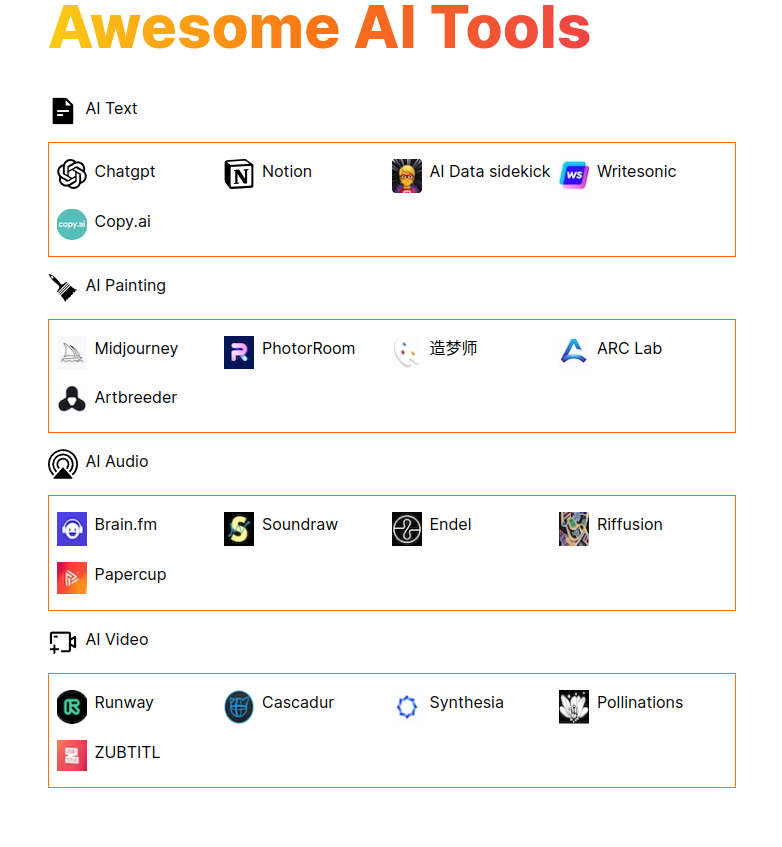
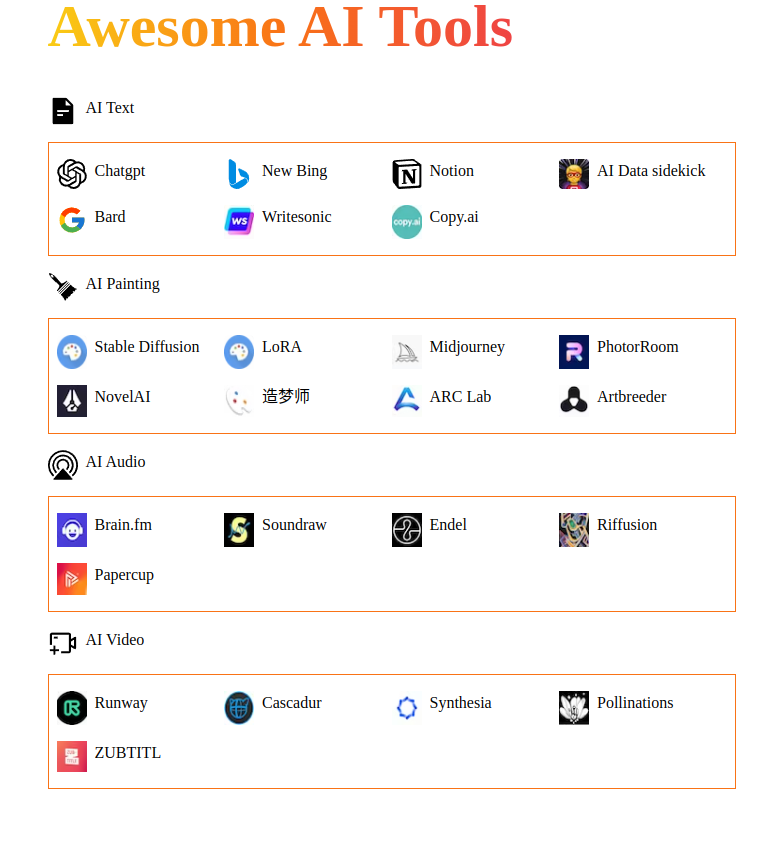
update text tools

diff --git a/src/app/page.tsx b/src/app/page.tsx
@@ -1,15 +1,19 @@
 import Contact from '@/components/Contact';
 import Icon from '@/components/Icon';
 import { AiFillFileText, AiOutlineVideoCameraAdd } from 'react-icons/ai';
-import { SiOpenai, SiNotion, SiAirplayaudio } from 'react-icons/si'
+import { SiOpenai, SiNotion, SiAirplayaudio, SiMicrosoftbing } from 'react-icons/si'
 import { GiLargePaintBrush } from 'react-icons/gi'
+import { FcGoogle } from 'react-icons/fc'
 
 export default function About() {
-  const TEXT_TOOLS = [{ icon: SiOpenai, href: 'https://chat.openai.com/chat', label: 'Chatgpt' },
-  { icon: SiNotion, href: 'https://notion.ai', label: 'Notion' },
-  { icon: '/img/sidekick.jpeg', href: 'https://www.airops.com/', label: 'AI Data sidekick' },
-  { icon: '/img/writesonic.jpeg', href: 'https://writesonic.com', label: 'Writesonic' },
-  { icon: '/img/copyai.jpeg', href: 'https://www.copy.ai', label: 'Copy.ai' },
+  const TEXT_TOOLS = [
+    { icon: SiOpenai, href: 'https://chat.openai.com/chat', label: 'Chatgpt' },
+    { icon: SiMicrosoftbing, href: 'https://bing.com/new', label: 'New Bing', color: '#008CE2' },
+    { icon: SiNotion, href: 'https://notion.ai', label: 'Notion' },
+    { icon: '/img/sidekick.jpeg', href: 'https://www.airops.com/', label: 'AI Data sidekick' },
+    { icon: FcGoogle, href: 'https://bard.google.com/', label: 'Bard' },
+    { icon: '/img/writesonic.jpeg', href: 'https://writesonic.com', label: 'Writesonic' },
+    { icon: '/img/copyai.jpeg', href: 'https://www.copy.ai', label: 'Copy.ai' },
   ]
   const PAINT_TOOLS = [
     { icon: '/img/paint.png', href: 'https://stablediffusionweb.com/', label: 'Stable Diffusion' },
@@ -46,7 +50,7 @@ export default function About() {
         </div>
         <div className='my-4 grid grid-cols-4  border border-orange-500 p-2'>
           {TEXT_TOOLS.map((item, index) => (
-            <Icon key={index} icon={item.icon} href={item.href} label={item.label}></Icon>
+            <Icon key={index} icon={item.icon} href={item.href} label={item.label} color={item.color}></Icon>
           ))}
         </div>
       </div>

diff --git a/src/components/Icon.tsx b/src/components/Icon.tsx
@@ -5,19 +5,20 @@ interface IconProps {
     icon: IconType | string;
     href: string;
     label: string;
+    color?: string;
 }
 
-const Icon: React.FC<IconProps> = ({ icon: IconComponent, href, label }) => (
+const Icon: React.FC<IconProps> = (props) => (
     <div className='my-2 flex'>
-        {typeof IconComponent === 'string' ? <Image src={IconComponent} alt={label} width="30" height="30"></Image>: <IconComponent size='30'/>}
+        {typeof props.icon === 'string' ? <Image src={props.icon} alt={props.label} width="30" height="30"></Image>: <props.icon size='30' color={props.color}/>}
        
         <a
-            href={href}
+            href={props.href}
             className="ml-2 decoration-neutral-500 decoration-1 underline-offset-4 duration-500 ease-in-out hover:text-gray-500"
             target="_blank"
             rel="noreferrer"
         >
-            {label}
+            {props.label}
         </a>
     </div>
 );
